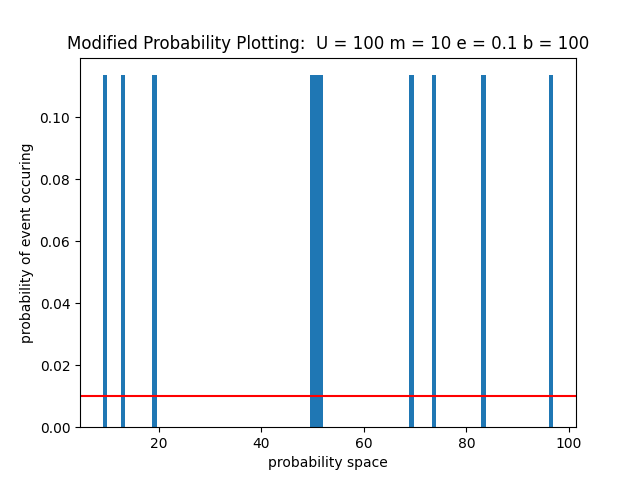
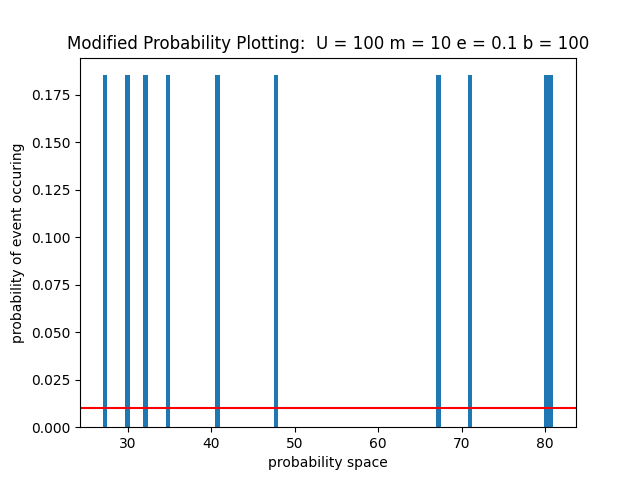
fixed an error in gen_S

diff --git a/gen_S.py b/gen_S.py
@@ -27,33 +27,33 @@ def empirical_dist(incoming_U, incoming_m, incoming_arr_samples):
 if __name__ == '__main__':
     # FOR TESTING EITHER COMMENT THIS SECTION OUT OR THE NEXT TESTING SECTION
     # U, m, e, and b 
-    #incoming_arr_samples = np.load('Gen_Samples.npy')
-    #if len(sys.argv) != 5 :
-    #    print("Usage:", sys.argv[0], "U m e b")
-    #    sys.exit()
-    #path1 = sys.argv[1]
-    #path2 = sys.argv[2]
-    #path3 = sys.argv[3]
-    #path4 = sys.argv[4]  
-    #U = int(path1)
-    #m = int(path2)
-    #e = float(path3)/100 # recall this value has been multiplied by 100 in sh script
-    #b = int(path4)
+    incoming_arr_samples = np.load('Gen_Samples.npy')
+    if len(sys.argv) != 5 :
+        print("Usage:", sys.argv[0], "U m e b")
+        sys.exit()
+    path1 = sys.argv[1]
+    path2 = sys.argv[2]
+    path3 = sys.argv[3]
+    path4 = sys.argv[4]  
+    U = int(path1)
+    m = int(path2)
+    e = float(path3)/100 # recall this value has been multiplied by 100 in sh script
+    b = int(path4)
 
     # FOR TESTING EITHER COMMENT THIS SECTION OUT OR THE PREV TESTING SECTION
-    incoming_arr_samples = [1,2,3,3,3,4,4,5,6,7,8,9,10,11,1,14,17]
-    U = 20
-    m = 17
-    e = 0.1
-    b = 100
+    #incoming_arr_samples = [1,2,3,3,3,4,4,5,6,7,8,9,10,11,1,14,17]
+    #U = 20
+    #m = 17
+    #e = 0.1
+    #b = 100
 
     p_emp_dependent = empirical_dist(U, m, incoming_arr_samples)
 
     new_lis = list(p_emp_dependent.items())
     two_dim_arr = np.array(new_lis)
     print(two_dim_arr)
-    e=e*100
-    savetxt(f'histo_{U}_{m}_{e}_{b}.csv', two_dim_arr, delimiter=',', fmt='%d', header='item in prob space, frequency in samples generated')
+    # e=e*100
+    # print(savetxt(f'histo_{U}_{m}_{e}_{b}.csv', two_dim_arr, delimiter=',', fmt='%d', header='item in prob space, frequency in samples generated')) # something with this is nto working
 
     #TODO: would also maybe be useful to plot your histogram to check
     #TODO: also need to remove dependencies to make the histogram independent? "sample the samples"? need to follow up on the procedure for that
